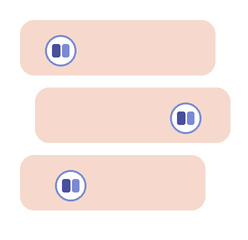
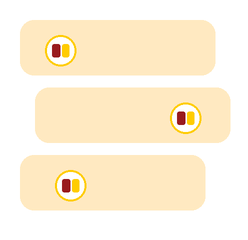
Shift the site palette to cardinal and gold
Header, icons, and section colors move off the DRAT purples onto
cardinal red and gold, with a warm cream for the light bands.

Changed region(s): [[0.1976, 0.7, 0.3669, 0.8458], [0.6774, 0.4083, 0.8185, 0.5833], [0.1694, 0.1458, 0.3105, 0.2917]]

diff --git a/css/custom.css b/css/custom.css
@@ -12,15 +12,15 @@ body{
 }
 
 a{
-	color:#494E9D;
+	color:#990000;
 }
 
 a:hover{
-	color:#C4C8F4;
+	color:#C9A227;
 }
 
 header{
-	background: #494E9D;
+	background: #990000;
 }
 
 .nav {
@@ -32,12 +32,16 @@ header{
 	color: #fff;
 }
 
+.nav a:hover{
+	color: #FFCC00;
+}
+
 .white-text{
 	color: #fff;
 }
 
 .grey-text{
-	color:#BDBDBD;
+	color:#8A8070;
 }
 
 .bigtranslate{
@@ -57,15 +61,15 @@ header{
 }
 
 .alternate-lightbg{
-	background: #F1F1F7;
+	background: #FFF8E7;
 }
 
 .alternate-darkbg{
-	background: #4B4F85;
+	background: #6E1014;
 }
 
 .footer-bg{
-	background: #383838;
+	background: #2A1214;
 }
 
 .circular-border{
@@ -73,7 +77,20 @@ header{
 }
 
 .fa-color{
-	color: #494E9D;
+	color: #990000;
+}
+
+.btn-outline-cardinal {
+	color: #990000;
+	background: transparent;
+	border: 1px solid #990000;
+}
+
+.btn-outline-cardinal:hover,
+.btn-outline-cardinal:focus {
+	color: #990000;
+	background: #FFCC00;
+	border-color: #990000;
 }
 
 .names a{
@@ -105,7 +122,7 @@ header{
 	width: 56px;
 	height: 2px;
 	margin: 12px auto 0;
-	background: rgba(255, 255, 255, 0.45);
+	background: #FFCC00;
 }
 
 .pmc-person a {
@@ -130,7 +147,7 @@ header{
 	aspect-ratio: 1 / 1;
 	object-fit: cover;
 	border-radius: 50%;
-	border: 3px solid rgba(255, 255, 255, 0.9);
+	border: 3px solid #FFCC00;
 	box-shadow: 0 8px 20px rgba(0, 0, 0, 0.28);
 	background: #fff;
 }
@@ -152,7 +169,7 @@ header{
 }
 
 .pmc-person a:hover .pmc-avatar {
-	border-color: #fff;
+	border-color: #FFE680;
 	box-shadow: 0 10px 26px rgba(0, 0, 0, 0.4);
 }
 
@@ -162,8 +179,8 @@ header{
 	height: 42px;
 	line-height: 42px;
 	border-radius: 50%;
-	background: #494E9D;
-	color: #fff;
+	background: #990000;
+	color: #FFCC00;
 	font-size: 1.1rem;
 	margin-bottom: 12px;
 }

diff --git a/index.html b/index.html
@@ -4,7 +4,7 @@
     <meta charset="utf-8">
     <meta name="viewport" content="width=device-width, initial-scale=1, shrink-to-fit=no">
     <link rel="stylesheet" href="css/bootstrap.min.css"/>
-    <link rel="stylesheet" href="css/custom.css?v=4"/>
+    <link rel="stylesheet" href="css/custom.css?v=5"/>
     <link href="https://fonts.googleapis.com/css?family=Lato" rel="stylesheet">
     <link rel="stylesheet" href="css/font-awesome.min.css">
   </head>
@@ -154,7 +154,7 @@
                 <div class="offset-sm-1 col-sm-9">
                   <h6>GITHUB</h6>
                   <p>Source, tests, the Spanish→English glossary, and CI live on GitHub. BigTranslate is powered by Mnemosyne 1.11.0 and builds on JDK 21.</p>
-		  <a class="btn btn-outline-danger circular-border" href="https://github.com/chrismattmann/bigtranslate">VIEW PROJECT</a>
+		  <a class="btn btn-outline-cardinal circular-border" href="https://github.com/chrismattmann/bigtranslate">VIEW PROJECT</a>
 			</div>
               </div>
             </div>
@@ -167,7 +167,7 @@
                 <div class="offset-sm-1 col-sm-9">
                   <h6>WIKI</h6>
                   <p>Installation, how to run, how to re-run, and how to interact with OpsUI and Solr are documented on the project wiki.</p>
-                  <a class="btn btn-outline-danger circular-border" href="https://github.com/chrismattmann/bigtranslate/wiki">READ THE WIKI</a>
+                  <a class="btn btn-outline-cardinal circular-border" href="https://github.com/chrismattmann/bigtranslate/wiki">READ THE WIKI</a>
                 </div>
               </div>
             </div>
